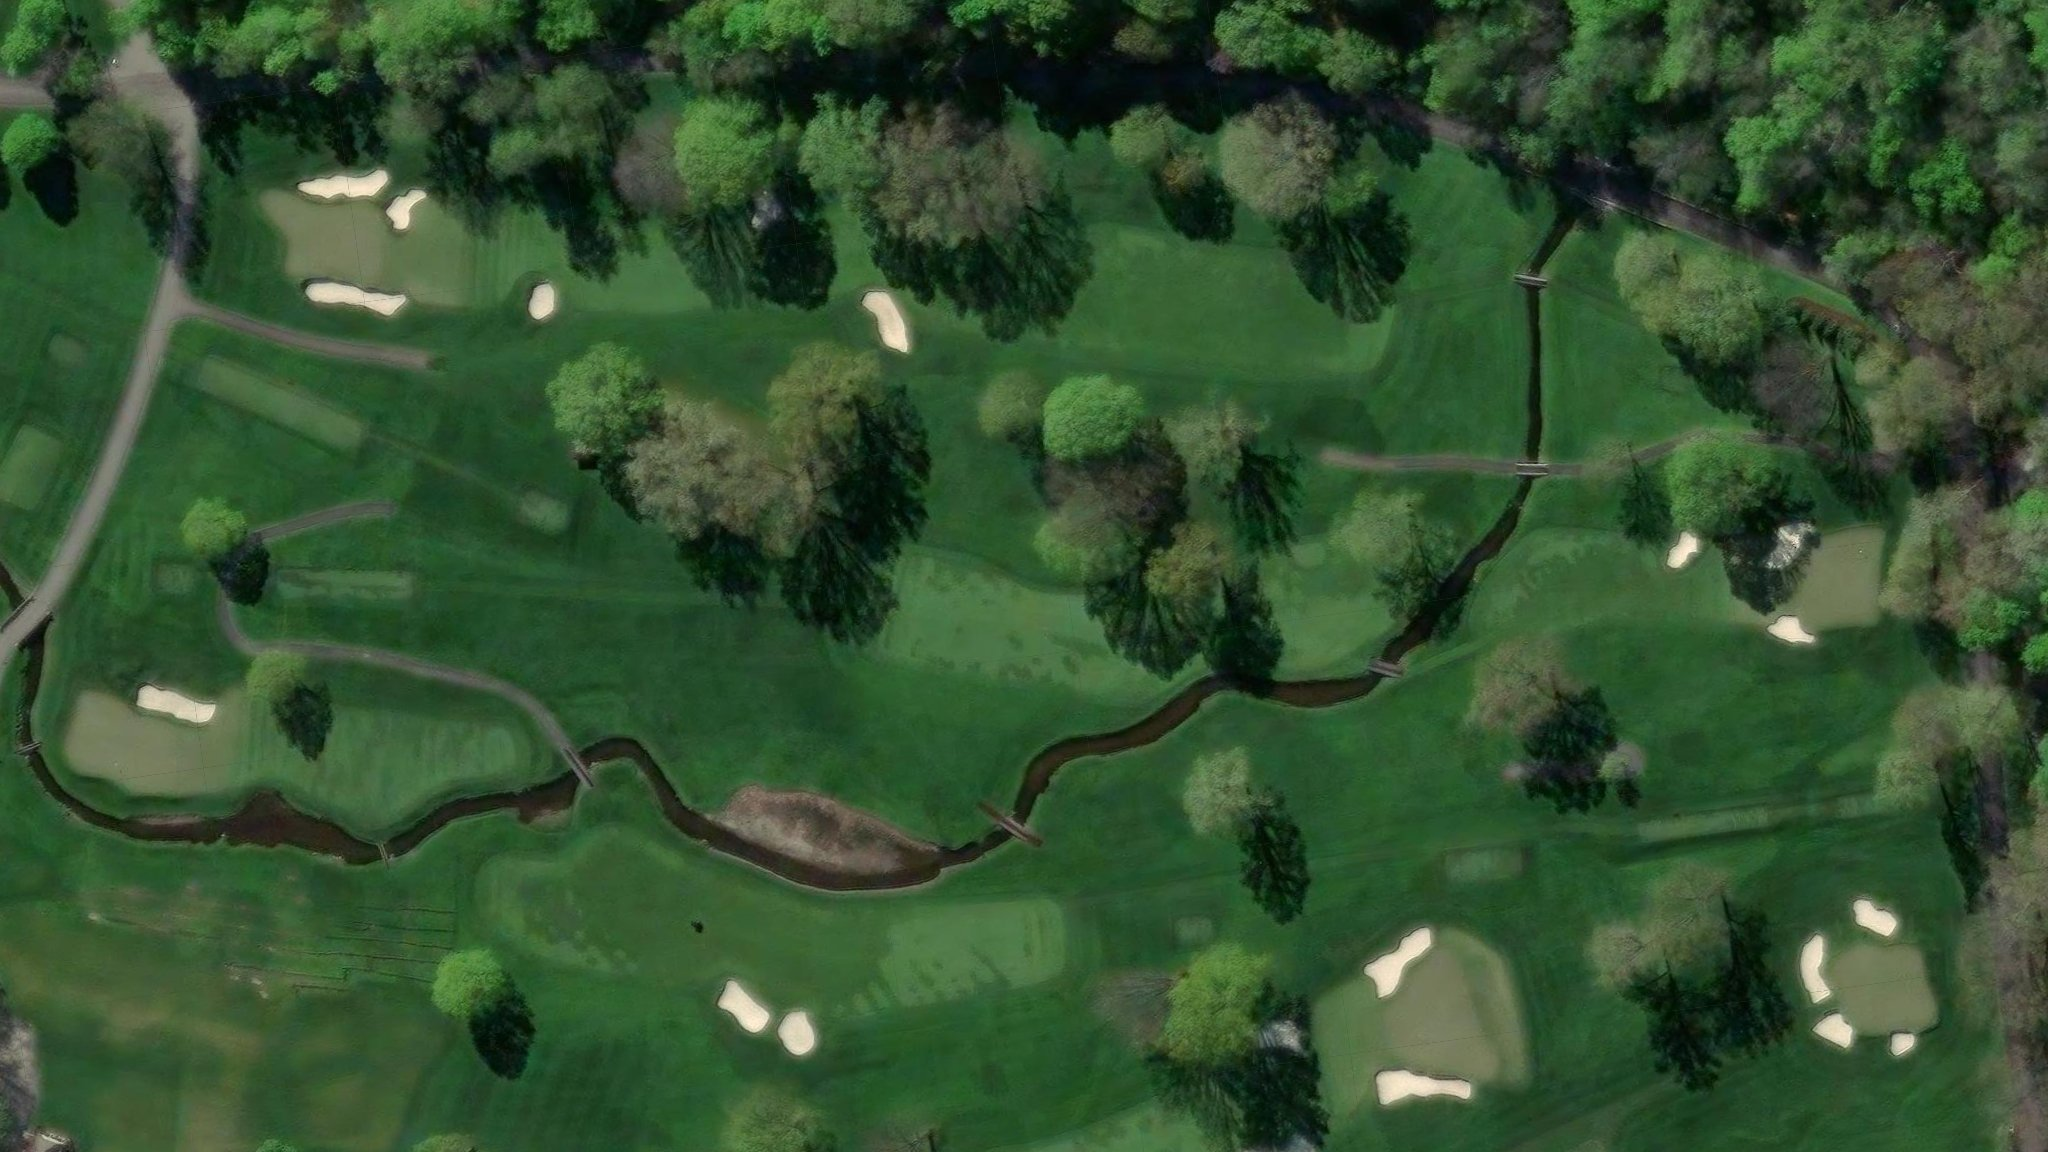
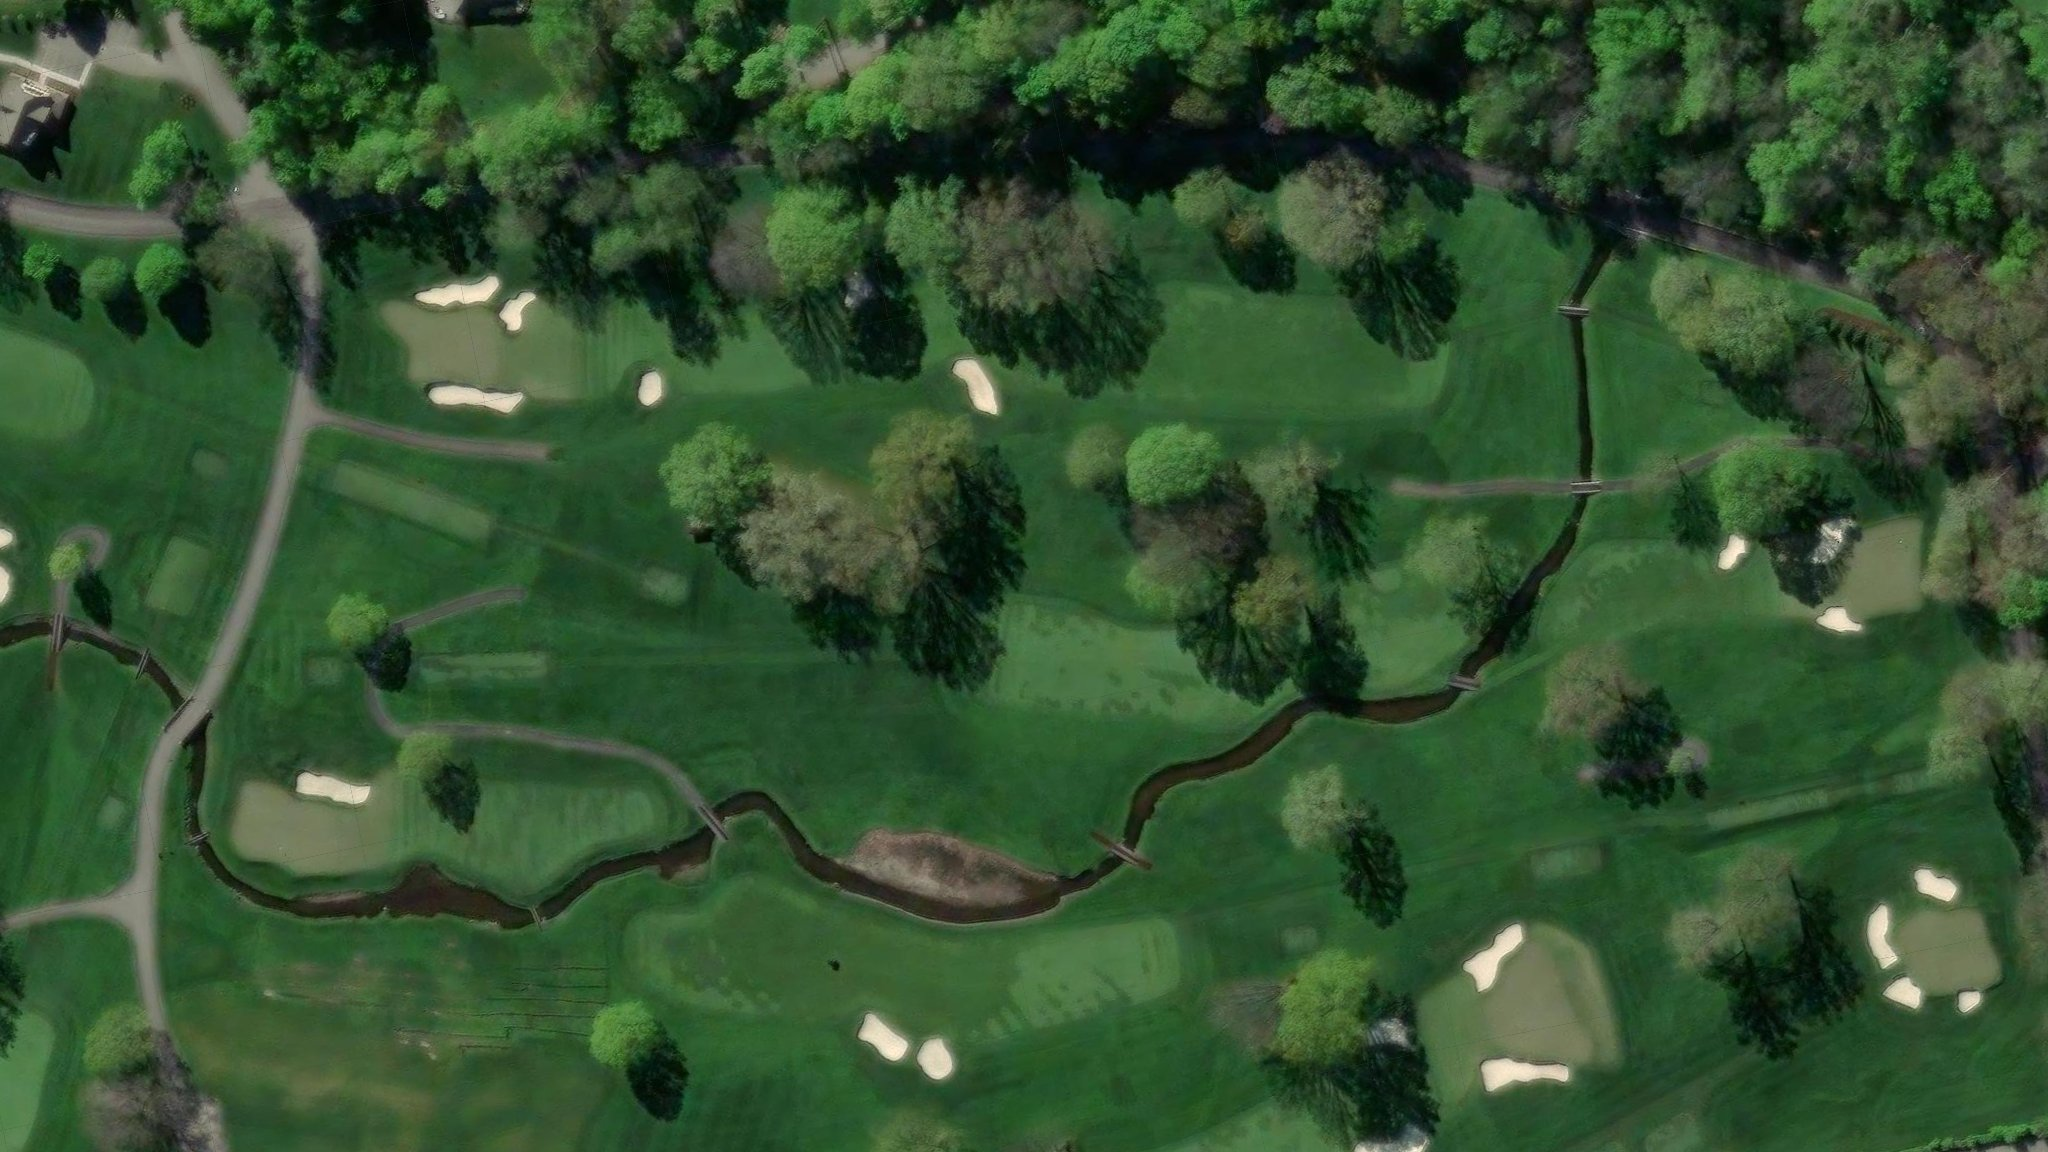
Marshal guide: 6 hole images, 36 stations (+1 image file)

diff --git a/js/holes-data.js b/js/holes-data.js
@@ -1,5 +1,5 @@
 // Hole images and marshal stations.
-// Saved from admin.html on 2026-08-25T00:20:34.116Z
+// Saved from admin.html on 2026-08-25T00:22:35.022Z
 const HOLES_DATA = {
   "east": {
     "name": "Oak Hill East",
@@ -340,15 +340,45 @@ const HOLES_DATA = {
         ],
         "source": {
           "kind": "satellite",
-          "tee": null,
-          "green": null,
+          "tee": {
+            "lat": 43.11517437855251,
+            "lng": -77.52809701152198
+          },
+          "green": {
+            "lat": 43.11928049880358,
+            "lng": -77.52695535537308
+          },
           "bearingNudge": 0,
           "zoomNudge": 0,
-          "shots": []
+          "shots": [
+            {
+              "lat": 43.11750409742168,
+              "lng": -77.52715214793899
+            }
+          ]
         },
-        "image": null,
-        "imageReady": false,
-        "spotsDone": false
+        "image": {
+          "src": "images/holes/east-07.jpg",
+          "width": 2048,
+          "height": 1152,
+          "tee": {
+            "x": 0.0799999999997093,
+            "y": 0.4999999999974523
+          },
+          "green": {
+            "x": 0.919999999999709,
+            "y": 0.4999999999974523
+          },
+          "shots": [
+            {
+              "x": 0.5652386244472248,
+              "y": 0.575758029053218
+            }
+          ]
+        },
+        "imageReady": true,
+        "spotsDone": false,
+        "lengthYards": 512.1799068070702
       },
       {
         "number": 8,
